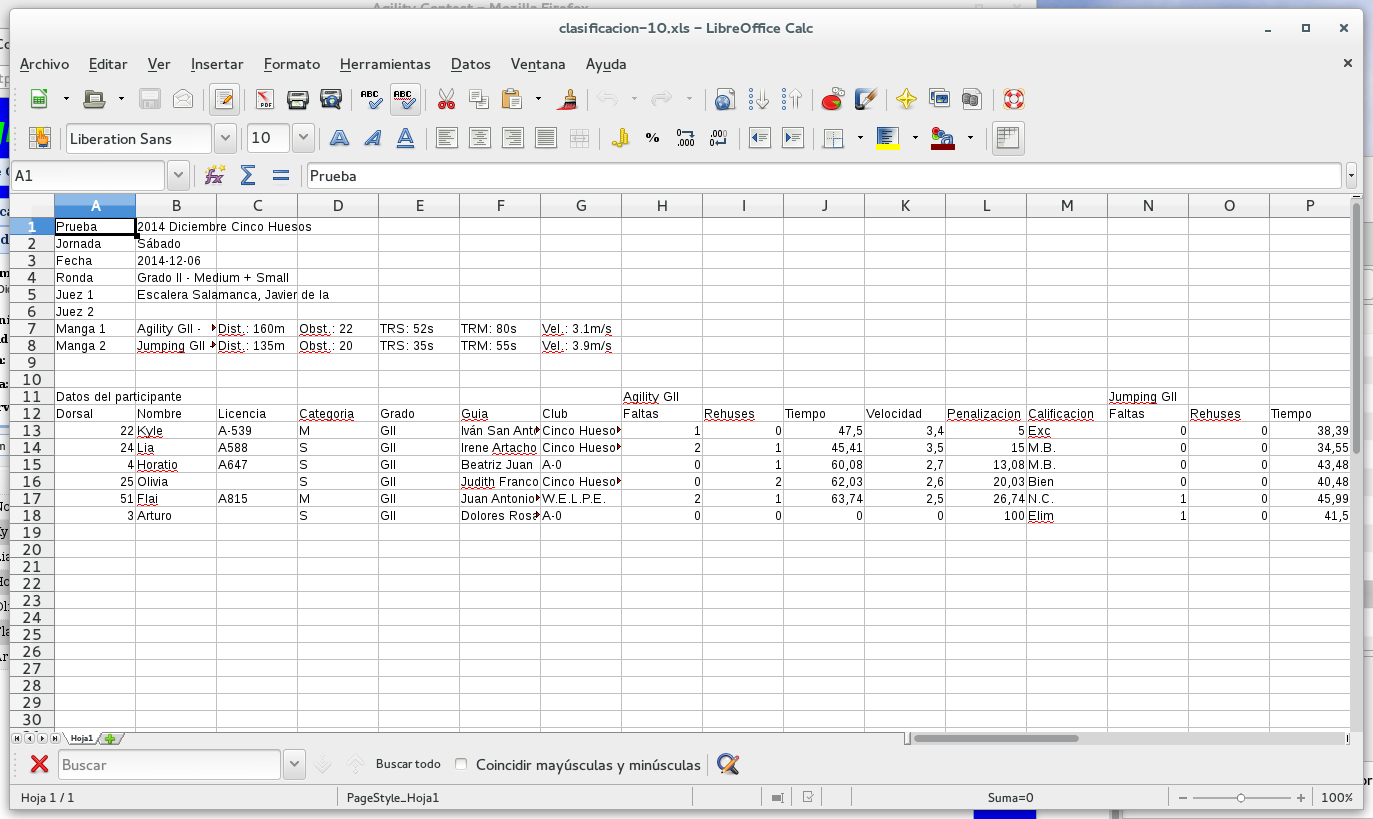
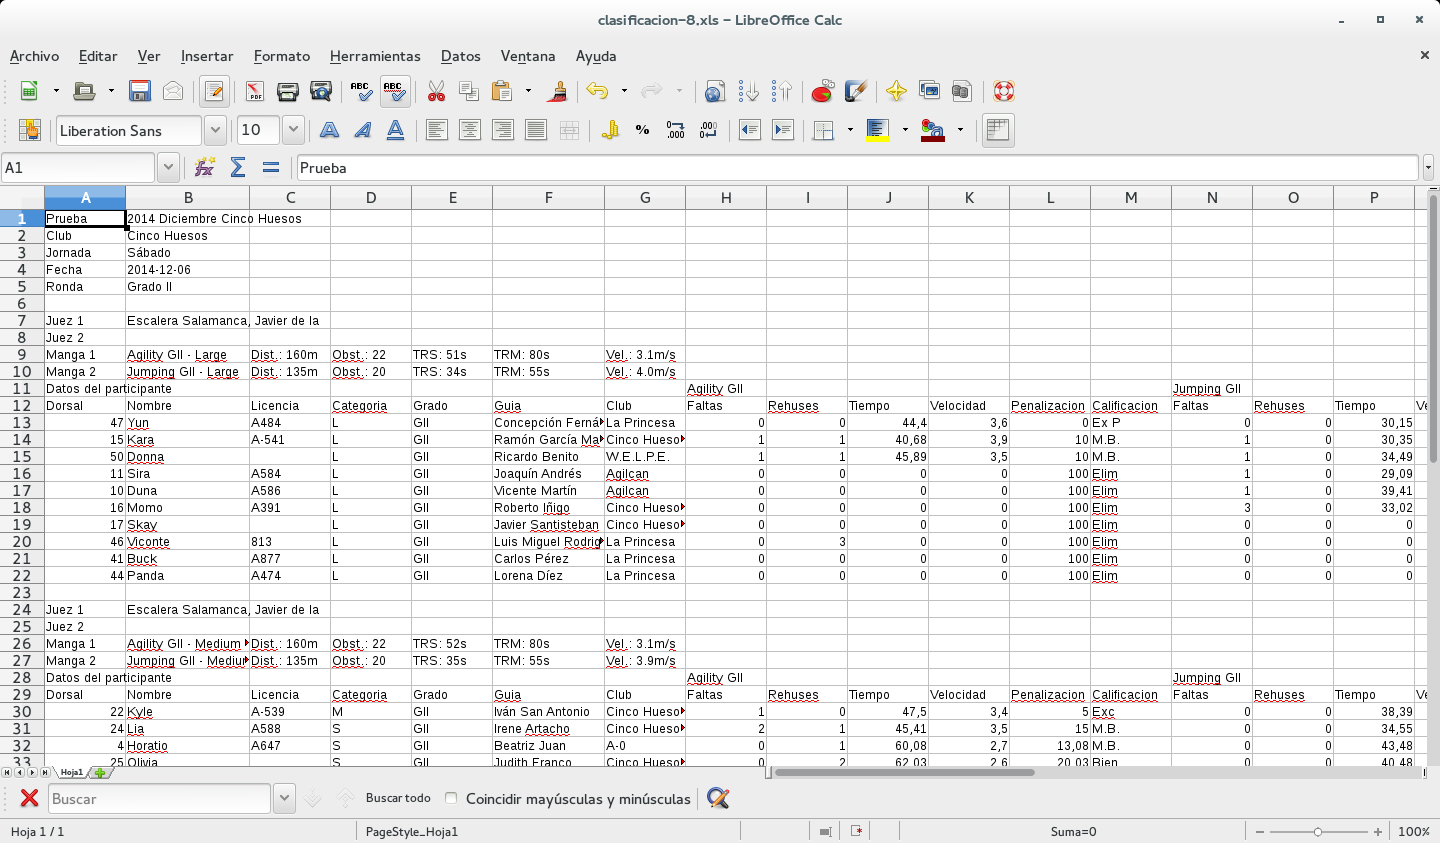
Excel export: integrate in a single sheet every mangas of same ronda

Changed region(s): [[0.0, 0.0, 1.0, 1.0]]

diff --git a/agility/server/pdf/print_clasificacion_excel.php b/agility/server/pdf/print_clasificacion_excel.php
@@ -38,34 +38,26 @@ require_once(__DIR__.'/../database/classes/Clasificaciones.php');
 
 class Excel {
 	protected $myLogger;
-	protected $club; // club organizador
-	protected $prueba; // datos de la prueba
-	protected $jornada; // datos de la jornada
-	protected $manga1; // datos de la manga
-	protected $manga2;
-	protected $resultados;
-	protected $trs1;
-	protected $trs2;
-	protected $categoria;
+	protected $dbobj;
+	protected $prueba;
+	protected $club;
+	protected $jornada;
+	protected $manga1;
+	protected $manga2; // in RSCE excel must allways exists (no single round)
 
 	 /** Constructor
 	 * @param {obj} $manga datos de la manga
 	 * @param {obj} $resultados resultados asociados a la manga/categoria pedidas
 	 * @throws Exception
 	 */
-	function __construct($prueba,$jornada,$mangas,$resultados,$mode) {
-		$this->myLogger= new Logger("PrintCommon");
-		$dbobj=new DBObject("print_clasificacion_excel");
-		$this->prueba=$dbobj->__getObject("Pruebas",$prueba);
-		$this->club=$dbobj->__getObject("Clubes",$this->prueba->Club); // club organizador
-		if ($jornada!=0) $this->jornada=$dbobj->__getObject("Jornadas",$jornada);
-		else $this->jornada=null;
-		$this->manga1=$dbobj->__getObject("Mangas",$mangas[0]);
-		$this->manga2=$dbobj->__getObject("Mangas",$mangas[1]);
-		$this->resultados=$resultados['rows'];
-		$this->trs1=$resultados['trs1'];
-		$this->trs2=$resultados['trs2'];
-		$this->categoria = Mangas::$manga_modes[$mode][0];
+	function __construct($prueba,$jornada,$mangas) {
+		$this->myLogger= new Logger("PrintExcel");
+		$this->dbobj=new DBObject("print_clasificacion_excel");
+		$this->prueba	=$this->dbobj->__getObject("Pruebas",$prueba);
+		$this->club		=$this->dbobj->__getObject("Clubes",$this->prueba->Club); // club organizador
+		$this->jornada	=$this->dbobj->__getObject("Jornadas",$jornada);
+		$this->manga1	=$this->dbobj->__getObject("Mangas",$mangas[0]);
+		$this->manga2	=$this->dbobj->__getObject("Mangas",$mangas[1]);
 	}
 	
 	// This one makes the beginning of the xls file
@@ -95,49 +87,58 @@ class Excel {
 		return;
 	}
 	
-	function write_datosMangas() {
+	function write_pageHeader($prueba,$jornada,$mangas) {
+		$ronda=Mangas::$tipo_manga[$this->manga1->Tipo][4]; // la misma que la manga 2
+		// starts at 0
+		$this->xlsLabel(0,0,"Prueba");
+		$this->xlsLabel(0,1,iconv( "UTF-8", "ISO-8859-1",$this->prueba->Nombre));
+		$this->xlsLabel(1,0,"Club");
+		$this->xlsLabel(1,1,iconv( "UTF-8", "ISO-8859-1",$this->club->Nombre));
+		$this->xlsLabel(2,0,"Jornada");
+		$this->xlsLabel(2,1,iconv( "UTF-8", "ISO-8859-1",$this->jornada->Nombre));
+		$this->xlsLabel(3,0,"Fecha");
+		$this->xlsLabel(3,1,$this->jornada->Fecha);
+		$this->xlsLabel(4,0,"Ronda");
+		$this->xlsLabel(4,1, iconv("UTF-8", "ISO-8859-1",$ronda));
+		return 5;
+	}
+	
+	function write_datosMangas($result,$row, $mode) {
 		$jobj=new Jueces("print_Clasificaciones");
 		$juez1=$jobj->selectByID($this->manga1->Juez1);
 		$juez2=$jobj->selectByID($this->manga1->Juez2);
 		$j1=$juez1['Nombre'];
 		$j2=$juez2['Nombre'];
-		$tm1=Mangas::$tipo_manga[$this->manga1->Tipo][3] . " - " . $this->categoria;
-		$tm2=Mangas::$tipo_manga[$this->manga2->Tipo][3] . " - " . $this->categoria;
-		$ronda=Mangas::$tipo_manga[$this->manga1->Tipo][4]; // la misma que la manga 2
+		$categoria = Mangas::$manga_modes[$mode][0];
+		$tm1=Mangas::$tipo_manga[$this->manga1->Tipo][3] . " - " . $categoria;
+		$tm2=Mangas::$tipo_manga[$this->manga2->Tipo][3] . " - " . $categoria;
 		
-		$this->xlsLabel(0,0,"Prueba");
-			$this->xlsLabel(0,1,iconv( "UTF-8", "ISO-8859-1",$this->prueba->Nombre));
-		$this->xlsLabel(1,0,"Jornada");
-			$this->xlsLabel(1,1,iconv( "UTF-8", "ISO-8859-1",$this->jornada->Nombre));
-		$this->xlsLabel(2,0,"Fecha");
-			$this->xlsLabel(2,1,$this->jornada->Fecha);
-		$this->xlsLabel(3,0,"Ronda");
-			$this->xlsLabel(3,1, "$ronda - {$this->categoria}");
-		$this->xlsLabel(4,0,"Juez 1");
-			$this->xlsLabel(4,1,iconv( "UTF-8", "ISO-8859-1",($j1==="-- Sin asignar --")?"":$j1));
-		$this->xlsLabel(5,0,"Juez 2");
-			$this->xlsLabel(5,1,iconv( "UTF-8", "ISO-8859-1",($j2==="-- Sin asignar --")?"":$j2));
-		$this->xlsLabel(6,0,"Manga 1");
-			$trs=$this->trs1;
-			$this->xlsLabel(6,1,$tm1);
-			$this->xlsLabel(6,2,"Dist.: {$trs['dist']}m");
-			$this->xlsLabel(6,3,"Obst.: {$trs['obst']}");
-			$this->xlsLabel(6,4,"TRS: {$trs['trs']}s");
-			$this->xlsLabel(6,5,"TRM: {$trs['trm']}s");
-			$this->xlsLabel(6,6,"Vel.: {$trs['vel']}m/s");
-		$this->xlsLabel(7,0,"Manga 2");
-			$trs=$this->trs2;
-			$this->xlsLabel(7,1,$tm2);
-			$this->xlsLabel(7,2,"Dist.: {$trs['dist']}m");
-			$this->xlsLabel(7,3,"Obst.: {$trs['obst']}");
-			$this->xlsLabel(7,4,"TRS: {$trs['trs']}s");
-			$this->xlsLabel(7,5,"TRM: {$trs['trm']}s");
-			$this->xlsLabel(7,6,"Vel.: {$trs['vel']}m/s");
+		$this->xlsLabel($row,0,"Juez 1");
+			$this->xlsLabel($row,1,iconv( "UTF-8", "ISO-8859-1",($j1==="-- Sin asignar --")?"":$j1));
+		$this->xlsLabel($row+1,0,"Juez 2");
+			$this->xlsLabel($row+1,1,iconv( "UTF-8", "ISO-8859-1",($j2==="-- Sin asignar --")?"":$j2));
+		$this->xlsLabel($row+2,0,"Manga 1");
+			$trs=$result['trs1'];
+			$this->xlsLabel($row+2,1,$tm1);
+			$this->xlsLabel($row+2,2,"Dist.: {$trs['dist']}m");
+			$this->xlsLabel($row+2,3,"Obst.: {$trs['obst']}");
+			$this->xlsLabel($row+2,4,"TRS: {$trs['trs']}s");
+			$this->xlsLabel($row+2,5,"TRM: {$trs['trm']}s");
+			$this->xlsLabel($row+2,6,"Vel.: {$trs['vel']}m/s");
+		$this->xlsLabel($row+3,0,"Manga 2");
+			$trs=$result['trs2'];
+			$this->xlsLabel($row+3,1,$tm2);
+			$this->xlsLabel($row+3,2,"Dist.: {$trs['dist']}m");
+			$this->xlsLabel($row+3,3,"Obst.: {$trs['obst']}");
+			$this->xlsLabel($row+3,4,"TRS: {$trs['trs']}s");
+			$this->xlsLabel($row+3,5,"TRM: {$trs['trm']}s");
+			$this->xlsLabel($row+3,6,"Vel.: {$trs['vel']}m/s");
+		return $row+4;
 	}
 	
-	function write_TableHeader() {
+	function write_TableHeader($base) {
 		
-		$base=10; // primera cabecera
+		// primera cabecera
 		$tm1=Mangas::$tipo_manga[$this->manga1->Tipo][3];
 		$tm2=Mangas::$tipo_manga[$this->manga2->Tipo][3];
 		$this->xlsLabel($base,0,"Datos del participante");
@@ -145,7 +146,7 @@ class Excel {
 		$this->xlsLabel($base,13,$tm2);
 		$this->xlsLabel($base,19,"Clasificacion");
 		
-		$base=11; // segunda cabecera
+		$base++; // segunda cabecera
 		$this->xlsLabel($base,0,"Dorsal");
 		$this->xlsLabel($base,1,"Nombre");
 		$this->xlsLabel($base,2,"Licencia");
@@ -169,9 +170,10 @@ class Excel {
 		$this->xlsLabel($base,20,"Penalizacion");
 		$this->xlsLabel($base,21,"Calificacion");
 		$this->xlsLabel($base,22,"Puesto");
+		return $base+1;
 	}
 	
-	function write_TableCell($idx,$row) {
+	function write_TableCell($base,$row) {
 		
 		// fomateamos datos
 		$puesto= ($row['Penalizacion']>=200)? "-":"{$row['Puesto']}";
@@ -182,8 +184,6 @@ class Excel {
 		$v2= ($row['P2']>=200)?"-":number_format($row['V2'],1);
 		$t2= ($row['P2']>=200)?"-":number_format($row['T2'],2);
 		$p2=number_format($row['P2'],2);
-		
-		$base=$idx+12;
 
 		$this->xlsNumber($base,0,$row['Dorsal']);
 		$this->xlsLabel($base,1,iconv( "UTF-8", "ISO-8859-1",$row['Nombre']));
@@ -208,18 +208,18 @@ class Excel {
 		$this->xlsNumber($base,20,$penal);
 		$this->xlsLabel($base,21,$row['Calificacion']);
 		$this->xlsLabel($base,22,$puesto);
+		return $base+1;
 	}
 	
-	function composeTable() {
+	function composeTable($mangas,$result,$mode,$base) {
 		$this->myLogger->enter();
-		$rowcount=0;
-		$this->write_datosMangas();
-		$this->write_TableHeader();
-		foreach($this->resultados as $row) {
-			$this->write_TableCell($rowcount,$row);
-			$rowcount++;
+		$base= $this->write_datosMangas($result,$base,$mode);
+		$base=$this->write_TableHeader( $base);
+		foreach($result['rows'] as $item) {
+			$base=$this->write_TableCell($base,$item);
 		}
 		$this->myLogger->leave();
+		return $base;
 	}
 }
 
@@ -238,6 +238,7 @@ try {
 	$mangas[6]=http_request("Manga7","i",0);
 	$mangas[7]=http_request("Manga8","i",0);
 	$mangas[8]=http_request("Manga9","i",0); // mangas 3..9 are used in KO rondas
+	
 	$mode=http_request("Mode","i","0"); // 0:Large 1:Medium 2:Small 3:Medium+Small 4:Large+Medium+Small
 	$c= new Clasificaciones("print_etiquetas_pdf",$prueba,$jornada);
 	$result=$c->clasificacionFinal($rondas,$mangas,$mode);
@@ -251,9 +252,36 @@ try {
 	header("Content-Type: application/download");
 	header("Content-Disposition: attachment;filename=clasificacion.xls");
 	header("Content-Transfer-Encoding: binary ");
-	$excel = new Excel($prueba,$jornada,$mangas,$result,$mode);
+	
+	$excel=new Excel($prueba,$jornada,$mangas);
 	$excel->xlsBOF();
-	$excel->composeTable();
+	$base=$excel->write_PageHeader($prueba,$jornada,$mangas);
+	
+	// buscamos los recorridos asociados a la mangas
+	$dbobj=new DBObject("print_clasificacion");
+	$mng=$dbobj->__getObject("Mangas",$mangas[0]);
+	$c= new Clasificaciones("print_podium_pdf",$prueba,$jornada);
+	$result=array();
+	switch($mng->Recorrido) {
+		case 0: // recorridos separados large medium small
+			$r=$c->clasificacionFinal($rondas,$mangas,0);
+			$base= $excel->composeTable($mangas,$r,0,$base+1);
+			$r=$c->clasificacionFinal($rondas,$mangas,1);
+			$base = $excel->composeTable($mangas,$r,1,$base+1);
+			$r=$c->clasificacionFinal($rondas,$mangas,2);
+			$base = $excel->composeTable($mangas,$r,2,$base+1);
+			break;
+		case 1: // large / medium+small
+			$r=$c->clasificacionFinal($rondas,$mangas,0);
+			$base = $excel->composeTable($mangas,$r,0,$base+1);
+			$r=$c->clasificacionFinal($rondas,$mangas,3);
+			$base = $excel->composeTable($mangas,$r,3,$base+1);
+			break;
+		case 2: // recorrido conjunto large+medium+small
+			$r=$c->clasificacionFinal($rondas,$mangas,4);
+			$base = $excel->composeTable($mangas,$r,4,$base+1);
+			break;
+	}
 	$excel->xlsEOF();
 } catch (Exception $e) {
 	do_log($e->getMessage());
